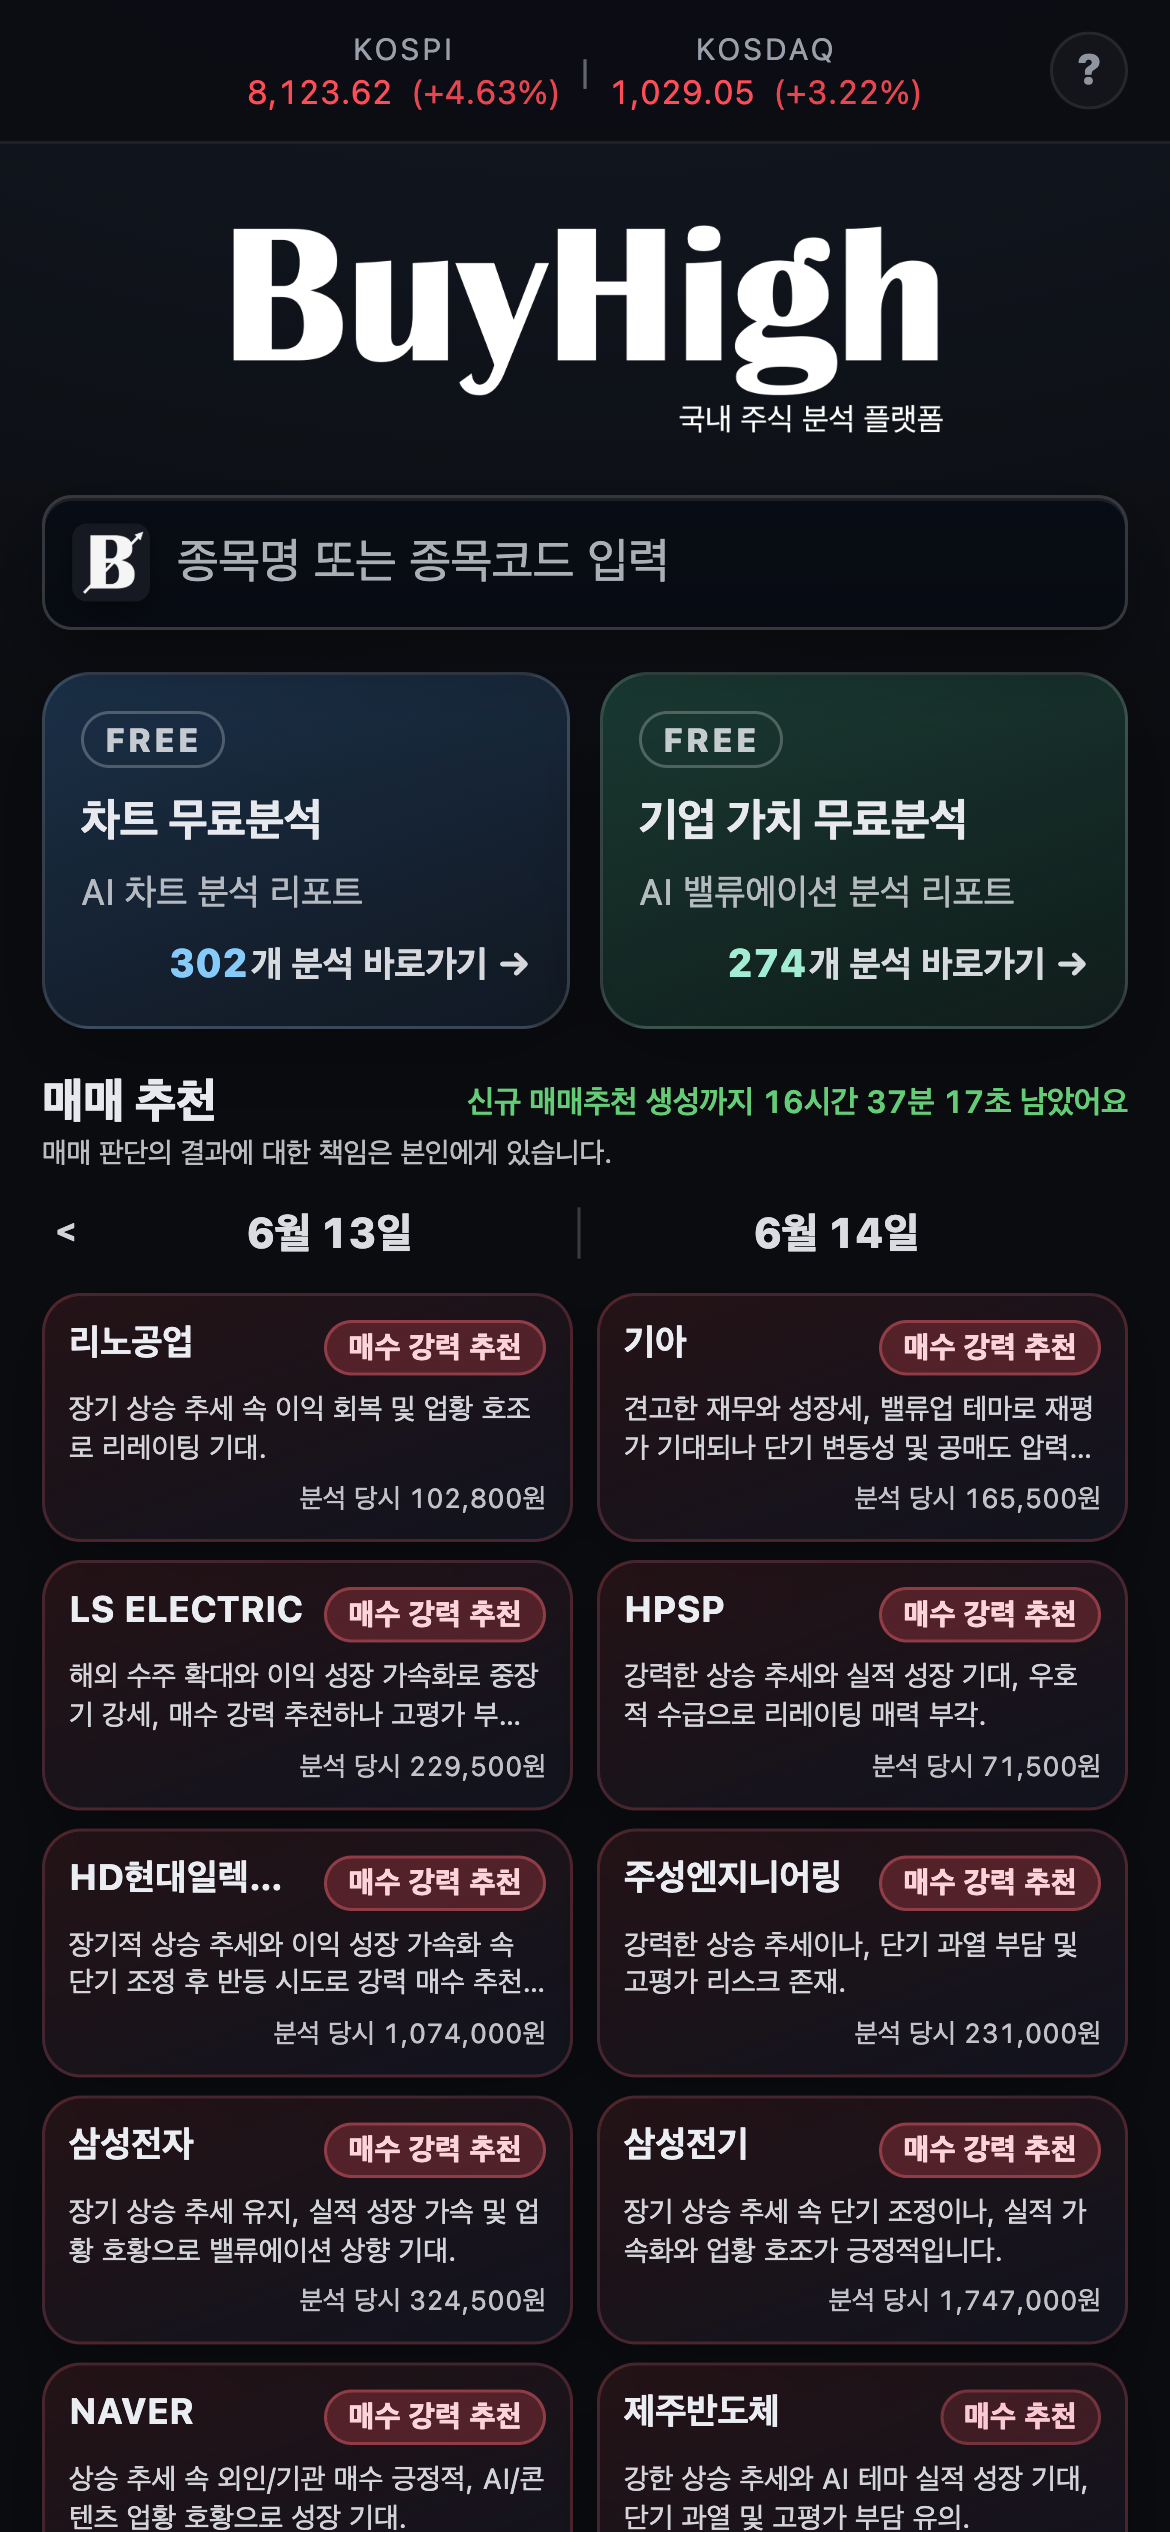
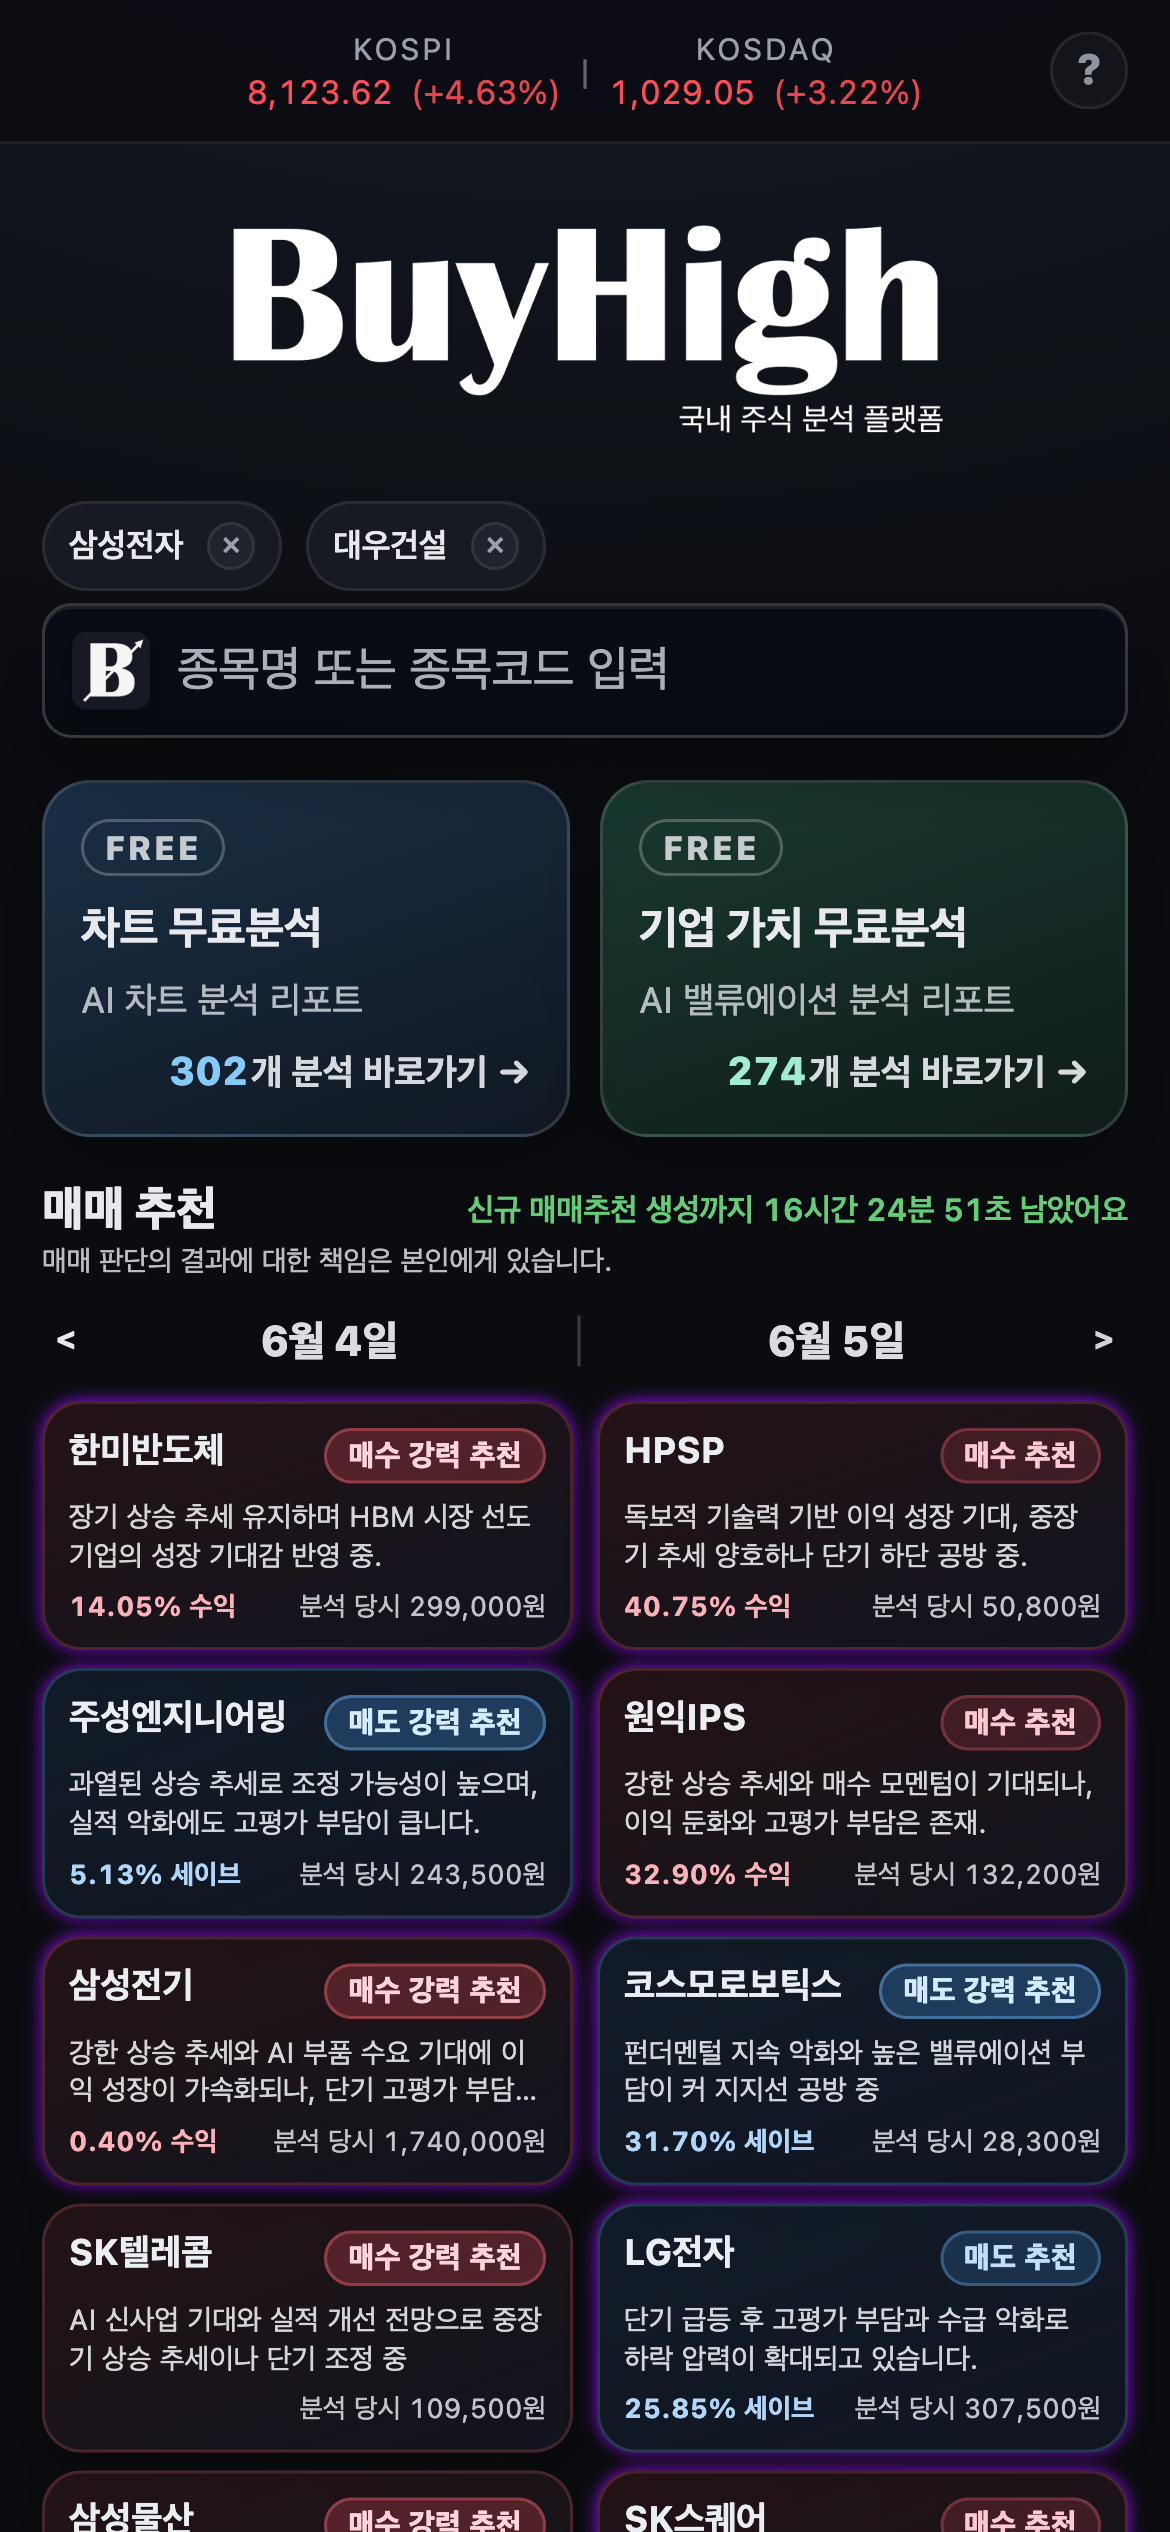
docs: add English and Japanese READMEs with language switcher

Changed region(s): [[0.0308, 0.1872, 0.9846, 1.0]]

diff --git a/README.en.md b/README.en.md
@@ -1,0 +1,90 @@
+<div align="center">
+
+<img src="resources/logo/favicon.ico" width="72" alt="BuyHigh logo" />
+
+# 📈 BuyHigh
+
+**Free AI Stock Analysis Platform**
+
+From chart & valuation analysis to AI reports — all in one place.
+
+[![Live](https://img.shields.io/badge/live-buyhigh.cc-2ea44f?style=flat-square)](https://buyhigh.cc)
+![Status](https://img.shields.io/badge/source-private-lightgrey?style=flat-square)
+![Java](https://img.shields.io/badge/Java-21-orange?style=flat-square)
+![Spring Boot](https://img.shields.io/badge/Spring%20Boot-3.5-6DB33F?style=flat-square)
+
+🔗 **[https://buyhigh.cc](https://buyhigh.cc)**
+
+[한국어](README.md) · **English** · [日本語](README.ja.md)
+
+</div>
+
+---
+
+> ⚠️ **This repository is for the project introduction (README) only.**
+> BuyHigh's source code is private, and no code is included in this repository.
+> You can use the service directly at the link above.
+
+---
+
+## About
+
+**BuyHigh** is a web platform that provides **free AI analysis reports** for Korean stocks.
+It turns complex charts and financial metrics into reports anyone can understand.
+
+## Features
+
+- 📊 **Chart Analysis** — AI interprets candles, moving averages, and volume into plain-language reports with actionable guidance
+- 💰 **Valuation Analysis** — Value assessment and risk factors based on key metrics like PER, PBR, and ROE
+- 🎯 **Stock Recommendations** — Data-driven trade ideas with position and range insights
+- 🤖 **AI Reports** — Stock analysis auto-generated by multiple LLMs (GPT · Gemini)
+- 🆓 **Free Analysis Feed** — Daily-updated lists of free chart and valuation analyses
+
+## Screenshots
+
+### Home
+<div align="center">
+<img src="resources/screenshots/main.png" width="280" alt="Home — indices, free analysis entry, trade recommendations" />
+</div>
+
+### Chart Analysis
+<div align="center">
+<img src="resources/screenshots/chart-main.png" width="280" alt="Stock chart — candles, moving averages, volume" />
+<img src="resources/screenshots/chart-analysis.png" width="280" alt="Chart AI analysis — actionable report" />
+</div>
+
+### Valuation Analysis
+<div align="center">
+<img src="resources/screenshots/valuation-main.png" width="280" alt="Valuation — key fundamental metrics" />
+<img src="resources/screenshots/valuation-analysis.png" width="280" alt="Valuation AI analysis — comprehensive report" />
+</div>
+
+### Free Analysis Feed
+<div align="center">
+<img src="resources/screenshots/free-chart.png" width="280" alt="Free chart analysis list" />
+<img src="resources/screenshots/free-valuation.png" width="280" alt="Free valuation analysis list" />
+</div>
+
+## Tech Stack
+
+| Area | Technologies |
+|------|-----------|
+| Backend | Java 21, Spring Boot 3.5, Spring WebFlux, Spring Security |
+| AI | Spring AI (OpenAI · Google GenAI), MCP Server |
+| Frontend | Thymeleaf, HTML/CSS/JS |
+| Data | Redis (session · cache) |
+| Market Data | Korea Investment & Securities Open API |
+| Infra | Docker, Nginx, Cloudflare Tunnel |
+
+## License · Source
+
+The source code is private (All rights reserved), and no code is included in this repository.
+For service-related inquiries, please open an issue.
+
+---
+
+<div align="center">
+
+Made with ☕ by [JeongSeongMok](https://github.com/JeongSeongMok)
+
+</div>

diff --git a/README.ja.md b/README.ja.md
@@ -1,0 +1,90 @@
+<div align="center">
+
+<img src="resources/logo/favicon.ico" width="72" alt="BuyHigh logo" />
+
+# 📈 BuyHigh
+
+**無料の株式AI分析プラットフォーム**
+
+チャート・バリュエーション分析からAIレポートまで、ひとつの場所で。
+
+[![Live](https://img.shields.io/badge/live-buyhigh.cc-2ea44f?style=flat-square)](https://buyhigh.cc)
+![Status](https://img.shields.io/badge/source-private-lightgrey?style=flat-square)
+![Java](https://img.shields.io/badge/Java-21-orange?style=flat-square)
+![Spring Boot](https://img.shields.io/badge/Spring%20Boot-3.5-6DB33F?style=flat-square)
+
+🔗 **[https://buyhigh.cc](https://buyhigh.cc)**
+
+[한국어](README.md) · [English](README.en.md) · **日本語**
+
+</div>
+
+---
+
+> ⚠️ **このリポジトリはプロジェクト紹介（README）専用です。**
+> BuyHigh のソースコードは非公開であり、本リポジトリにはコードは含まれていません。
+> サービスは上記のリンクから直接ご利用いただけます。
+
+---
+
+## 概要
+
+**BuyHigh** は、韓国株の銘柄に対して **無料のAI分析レポート** を提供するWebプラットフォームです。
+複雑なチャートや財務指標を、誰にでも理解できる分析レポートに変換します。
+
+## 主な機能
+
+- 📊 **チャート分析** — ローソク足・移動平均・出来高をAIが自然言語のレポートに解釈し、対応方針を提示
+- 💰 **バリュエーション分析** — PER・PBR・ROE などの主要指標に基づく価値判断とリスク要因の整理
+- 🎯 **銘柄推奨** — データに基づく売買アイデアと、ポジション・レンジのインサイト
+- 🤖 **AIレポート** — 複数のLLM（GPT・Gemini）による銘柄分析の自動生成
+- 🆓 **無料分析フィード** — 毎日更新されるチャート／バリュエーションの無料分析リスト
+
+## スクリーンショット
+
+### ホーム
+<div align="center">
+<img src="resources/screenshots/main.png" width="280" alt="ホーム — 指数、無料分析への導線、売買推奨" />
+</div>
+
+### チャート分析
+<div align="center">
+<img src="resources/screenshots/chart-main.png" width="280" alt="銘柄チャート — ローソク足・移動平均・出来高" />
+<img src="resources/screenshots/chart-analysis.png" width="280" alt="チャートAI分析 — 対応方針レポート" />
+</div>
+
+### バリュエーション分析
+<div align="center">
+<img src="resources/screenshots/valuation-main.png" width="280" alt="バリュエーション — ファンダメンタルの主要指標" />
+<img src="resources/screenshots/valuation-analysis.png" width="280" alt="バリュエーションAI分析 — 総合判断レポート" />
+</div>
+
+### 無料分析フィード
+<div align="center">
+<img src="resources/screenshots/free-chart.png" width="280" alt="無料チャート分析リスト" />
+<img src="resources/screenshots/free-valuation.png" width="280" alt="無料バリュエーション分析リスト" />
+</div>
+
+## 技術スタック
+
+| 領域 | 使用技術 |
+|------|-----------|
+| Backend | Java 21, Spring Boot 3.5, Spring WebFlux, Spring Security |
+| AI | Spring AI (OpenAI · Google GenAI), MCP Server |
+| Frontend | Thymeleaf, HTML/CSS/JS |
+| Data | Redis（セッション・キャッシュ） |
+| Market Data | 韓国投資証券 Open API |
+| Infra | Docker, Nginx, Cloudflare Tunnel |
+
+## ライセンス・ソース
+
+ソースコードは非公開（All rights reserved）であり、本リポジトリにはコードは含まれていません。
+サービスに関するお問い合わせは Issue にてお願いします。
+
+---
+
+<div align="center">
+
+Made with ☕ by [JeongSeongMok](https://github.com/JeongSeongMok)
+
+</div>

diff --git a/README.md b/README.md
@@ -15,6 +15,8 @@
 
 🔗 **[https://buyhigh.cc](https://buyhigh.cc)**
 
+**한국어** · [English](README.en.md) · [日本語](README.ja.md)
+
 </div>
 
 ---